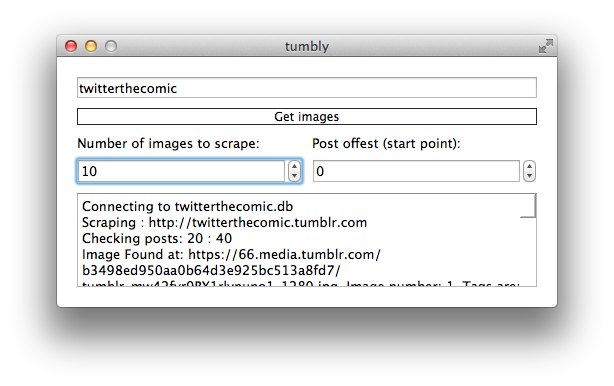
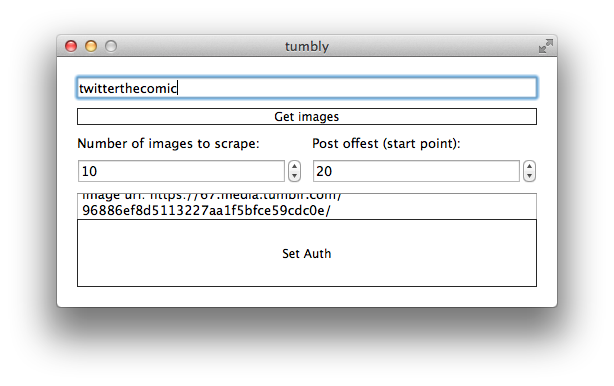
Add config file check to gui, update screenshot

diff --git a/run.py b/run.py
@@ -209,11 +209,15 @@ class Tumbly(QWidget):
 
     @pyqtSlot()
     def start_thread(self):
-        self.thread = QThread()
-        self.main_thread = RunMain()
-        self.main_thread.moveToThread(self.thread)
-        self.thread.started.connect(self.main_thread.run)
-        self.thread.start()
+        # Check config file exists, make one if not
+        if not os.path.isfile('config/tumblyconfig.ini'):
+            self.add_auth()
+        else:
+            self.thread = QThread()
+            self.main_thread = RunMain()
+            self.main_thread.moveToThread(self.thread)
+            self.thread.started.connect(self.main_thread.run)
+            self.thread.start()
 
 
 queue = queue.Queue()
